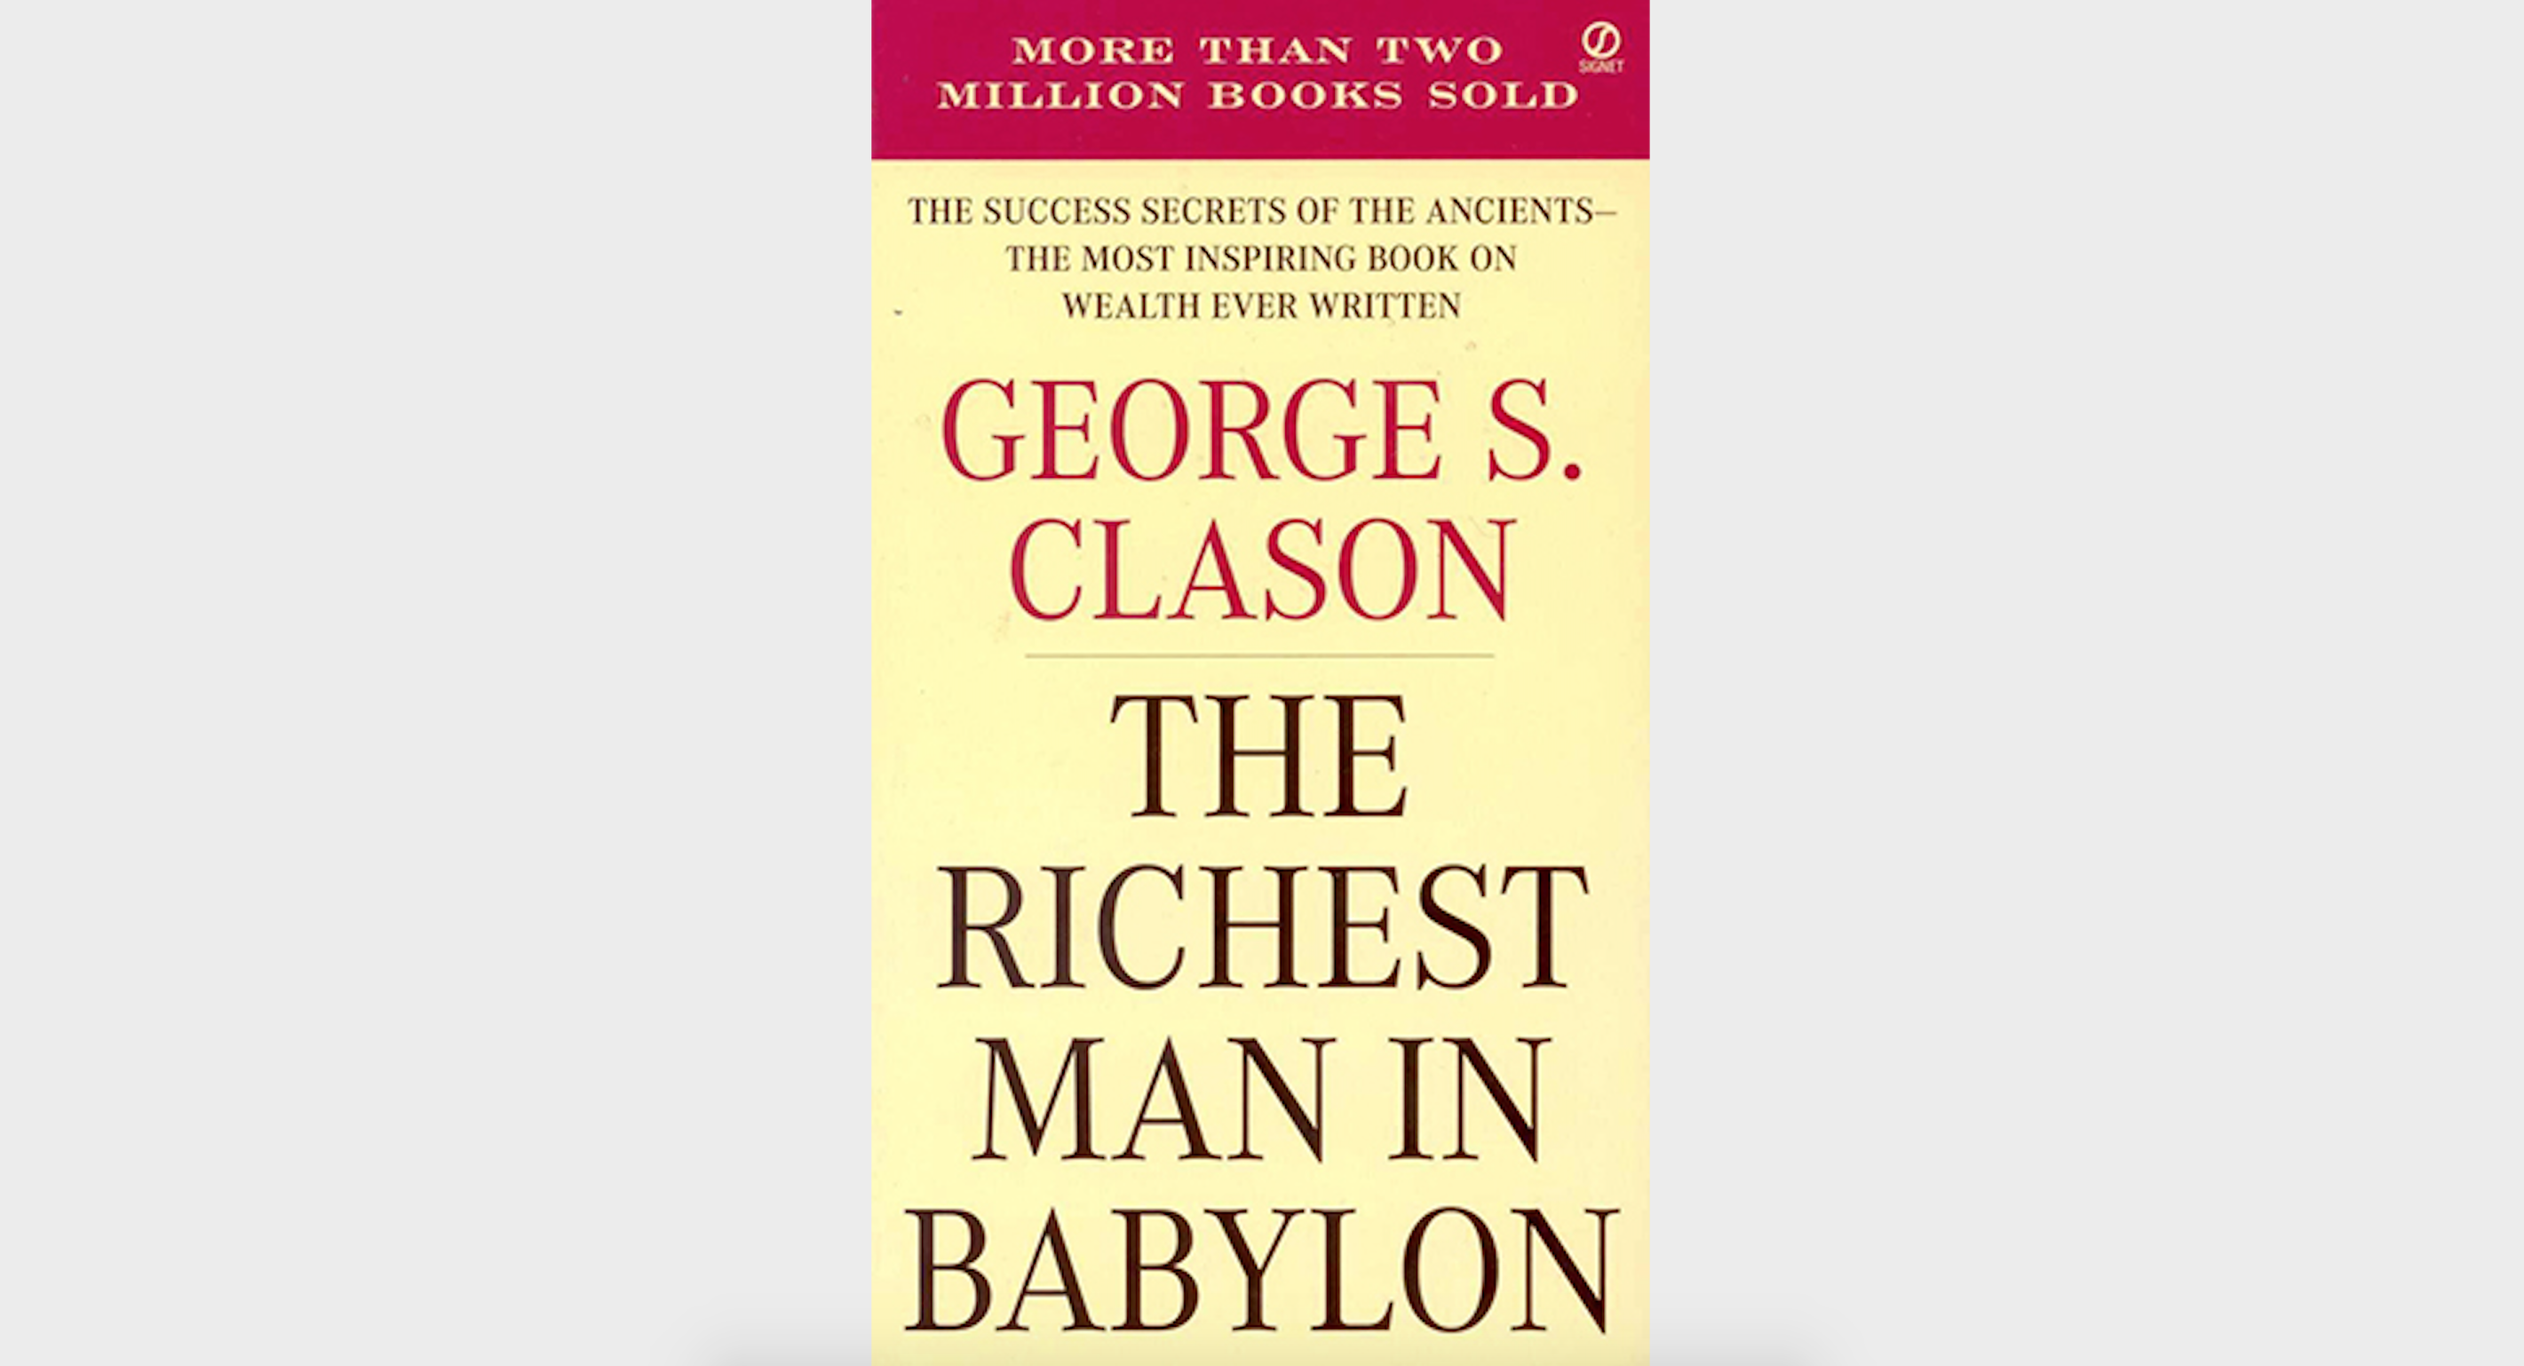
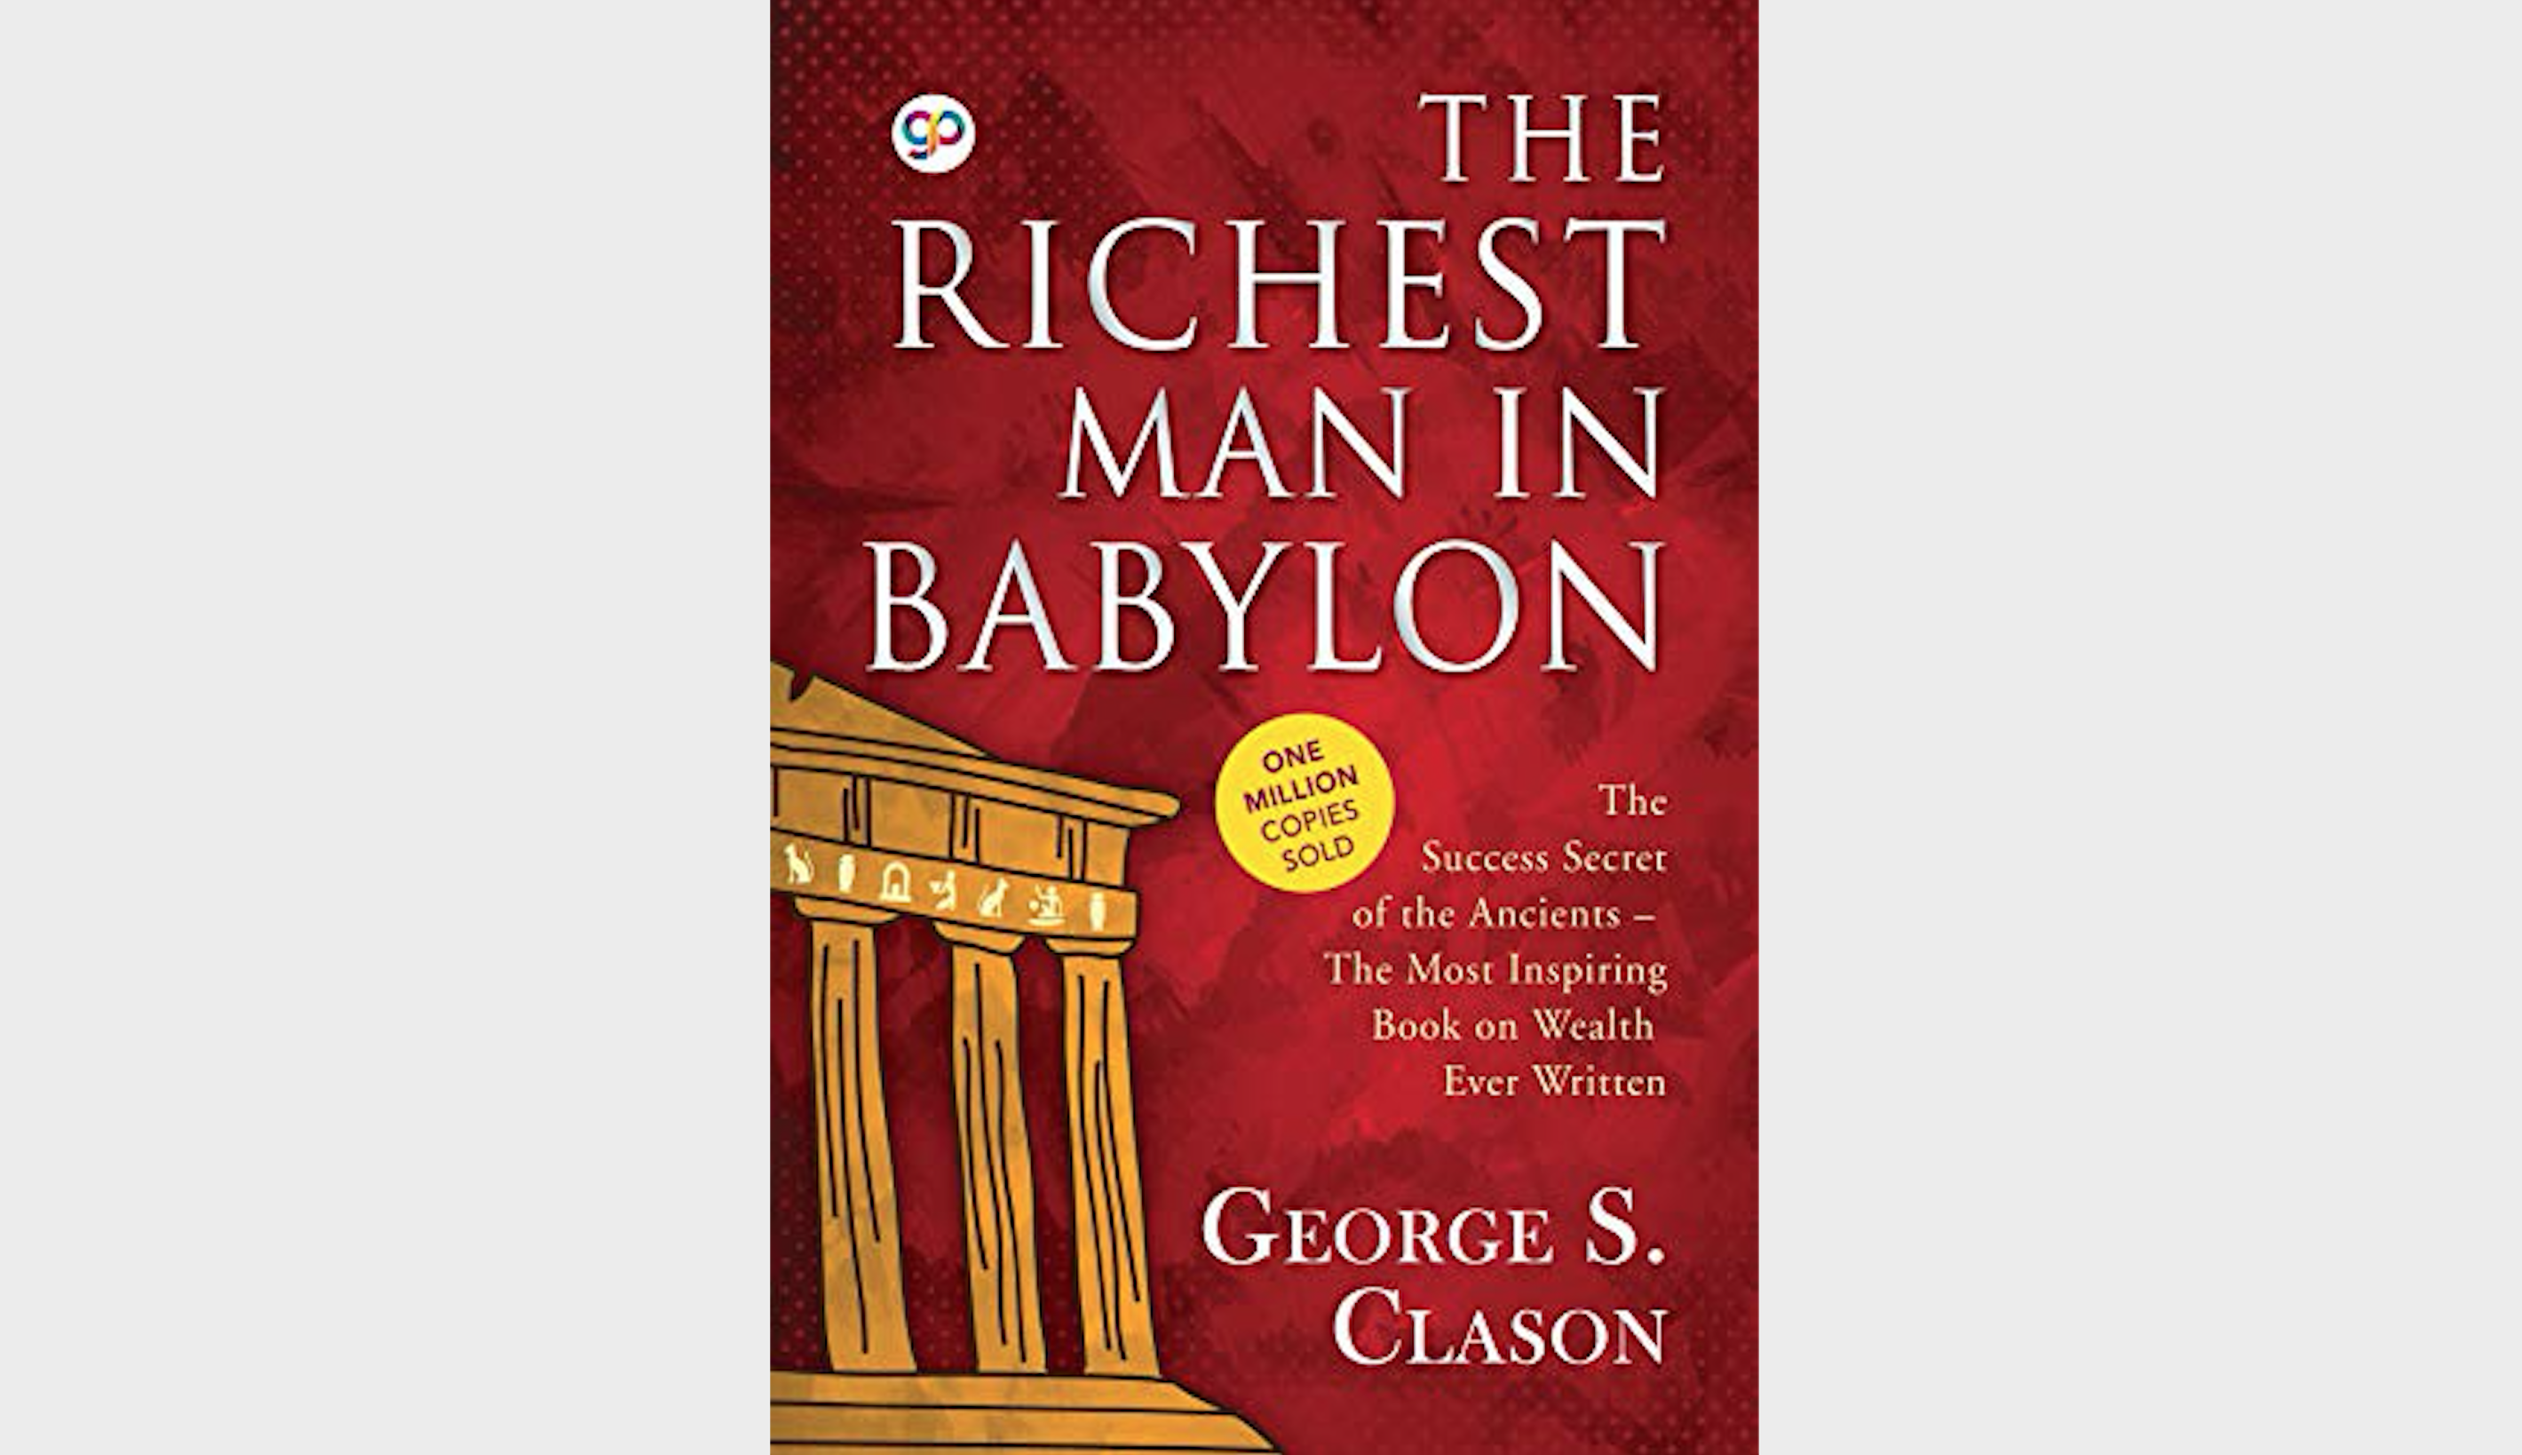
Publish blog post and change image asset

diff --git a/_posts/2021-02-18-the-richest-man-in-babylon-george-s-clason-book-summary.md b/_posts/2021-02-18-the-richest-man-in-babylon-george-s-clason-book-summary.md
@@ -10,31 +10,31 @@ hidden: true
 comments: false
 ---
 
-*The Richest Man in Babylon* by George S. Clason is a classic book on personal finance. I first read this book while in the middle of university, and since graduating, the advice given in this book has proven to be valuable. This book presents timeless personal financial advice in the form of finctional parables that take place in ancient Babylon. It's a very short read, and much of the advice is condensed in the summary below.
+*The Richest Man in Babylon* by George S. Clason is a classic book on personal finance. I first read this book while in the middle of university, and since graduating, the advice given in this book has proven to be valuable. This book presents timeless personal financial advice in the form of fictional parables that take place in ancient Babylon. It's a very short read, with much of the advice condensed in the summary below.
 
 ### Summary
 
-In ancient Babylon, a man by the name of Arkad, who was known as the richest man in Babylon, teaches his audiences how he became so rich through various parables. They can organized into roughly three groups, the "Seven Cures For a Lean Purse", "The Five Laws of Gold", and the last group being a few parables in the last few chapters of the book.
+In ancient Babylon, a man by the name of Arkad, who was known as the richest man in Babylon, teaches his audiences how he became rich through various parables. They can be organized into roughly three groups, the "Seven Cures For a Lean Purse", "The Five Laws of Gold", and last group being a few stand-alone parables in the last few chapters of the book.
 
 #### Seven Cures For a Lean Purse
 
-1. Start thy purse to fattening
+1. **Start thy purse to fattening:** do not spend everything that you earn, and set aside at least 10% of what you earn into savings.
 
-2. Control thy expenditures
+2. **Control thy expenditures:** do not confuse your wants with your needs, create a budget to ensure that you are not wasting money, and do not touch the 10% that you save from your earnings.
 
-3. Make thy gold multiply
+3. **Make thy gold multiply:** invest your money and make your money work for you while you sleep, taking advantage of compound interest over long periods of time.
 
-4. Guard thy treasures from loss
+4. **Guard thy treasures from loss:** do not be reckless with your investments or gamble with your money - ensure that you invest your money where it is safe and will gain you money; consult people smarter than you before making big investments.
 
-5. Make of thy dwelling a profitable investment
+5. **Make of thy dwelling a profitable investment:** avoid renting if possible and strive to own your home instead - it is better to pay a mortgage than to pay a landlord in the long-term.
 
-6. Insure a future income
+6. **Insure a future income:** ensure that you are saving, investing, and planning for retirement - plan for the days when you will not be able to earn an income in old age and protect your family.
 
-7. Increase thy ability to earn
+7. **Increase thy ability to earn:** invest in your self-education, gain skills, and work to increase your value to the market and your earning power.
 
 #### The Five Laws of Gold
 
-1. Gold cometh gladly and in increasing quantity to any man who will put by not less than one-tenth of his earngs to create an estate for his future and that of his family.
+1. Gold cometh gladly and in increasing quantity to any man who will put by not less than one-tenth of his earnings to create an estate for his future and that of his family.
 
 2. Gold laboreth diligently and contentedly for the wise owner who finds for it profitable employment, multiplying even as the flocks of the field.
 
@@ -46,8 +46,12 @@ In ancient Babylon, a man by the name of Arkad, who was known as the richest man
 
 #### Lessons from the Parables
 
+1. Men of action are favoured by the goddess of good luck.
+
 1. Better a little caution than a great regret.
 
 2. We cannot afford to be without adequate protection.
 
-3. Where the determination is, a way can be found.
+3. Where the determination is, the way can be found.
+
+The biggest lesson that I learned from these parables was that although you cannot predict when you will be lucky, the more opportunities you take advantage of and the more action you take, the luckier you will be. In general, you should be conservative with what you expect to earn and avoid get-rich-quick schemes.
